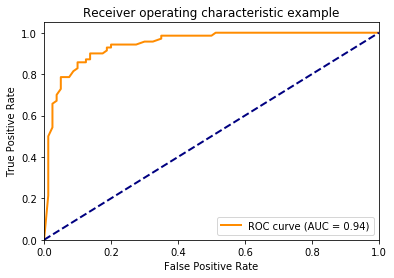
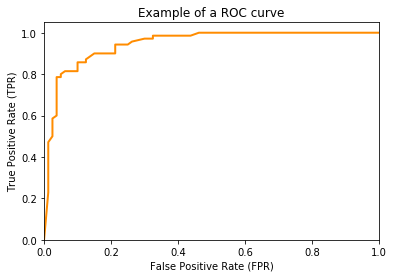
more on classification

diff --git a/_build/07_Classification.html b/_build/07_Classification.html
@@ -13,7 +13,7 @@ prev_page:
 next_page:
   url: /Exercises.html
 suffix: .ipynb
-search: classification class positive predicted negative spam hypothesis classes h b example false e scores x prediction emails objects not confusion matrix tdtd frac whale c binary concept td tr percentage categories images threshold o f case often instances correctly performance incorrectly table values pictures features target score predictions fp rate because our whales black even description mathcal scoring thus flagged metrics test actual true fn tn shows bear assign image general get also data algorithm usually such only sum t mean different mistakenly instance correct trtd tp positives negatives type cdot following img src png alt style width px set
+search: class positive metrics hypothesis classification negative predicted not classes spam performance example confusion matrix values tpr h prediction curve e case false b fpr roc only x predictions scores value emails mcc objects because thus threshold correctly different tdtd frac whale well used data f c binary four percentage concept mean td tr categories images often instances means table positives should auc consider our based also o such single evaluate score thresholds t between incorrectly result actual true correct recall shows pictures features even target perfect scoring just same good fp type measure rate accuracy very get whales black description
 
 comment: "***PROGRAMMATICALLY GENERATED, DO NOT EDIT. SEE ORIGINAL FILES IN /content***"
 ---
@@ -97,9 +97,8 @@ $$h_t(x) = \cases{ positive &amp; if $h'(x) \geq t$ \\ negative &amp; if $h' &lt
 
 
 
-<div class="output_png output_subarea ">
-<img src="images/07_Classification_1_0.png"
->
+<div class="output_text output_subarea ">
+<pre>&lt;Figure size 640x480 with 1 Axes&gt;</pre>
 </div>
 
 </div>
@@ -198,14 +197,14 @@ $$h_t(x) = \cases{ positive &amp; if $h'(x) \geq t$ \\ negative &amp; if $h' &lt
 <td>$TPR = \frac{FP}{TP+FN}$</td>
 </tr>
 <tr>
-<td>False negative rate, specificity</td>
+<td>True negative rate, specificity</td>
 <td>Percentage of negative instances that are predicted correctly.</td>
 <td>$TNR = \frac{TN}{TN+FP}$</td>
 </tr>
 <tr>
 <td>False negative rate</td>
 <td>Percentage of positive instances that are predicted incorrectly as negative.</td>
-<td>$TNR = \frac{FN}{FN+TP}$</td>
+<td>$FNR = \frac{FN}{FN+TP}$</td>
 </tr>
 <tr>
 <td>False positive rate</td>
@@ -239,7 +238,7 @@ $$h_t(x) = \cases{ positive &amp; if $h'(x) \geq t$ \\ negative &amp; if $h' &lt
 </tr>
 <tr>
 <td>F1 measure</td>
-<td>Harmonic mean of precision and recall.</td>
+<td>Harmonic mean of recall and precision.</td>
 <td>$F_1 = 2\cdot\frac{precision \cdot recall}{precision+recall}$</td>
 </tr>
 <tr>
@@ -249,6 +248,14 @@ $$h_t(x) = \cases{ positive &amp; if $h'(x) \geq t$ \\ negative &amp; if $h' &lt
 </tr>
 </tbody>
 </table>
+<p>Since there is an abundance of metrics, the question is still which metrics to use. The evaluation of eleven performance markers at the same time, many of which are strongly correlated, because they are all computed from the same four values from the confusion matrix, does not make sense. However, there is a logic behind these metrics, that can help with the decision which metrics should be used in a given projects.</p>
+<p>The first four metrics are rates in relation to the actual values. They can be used to answer the question "how much of my positive/negative data is labeled correctly". The combination of TPR and TNR is very important as these two metrics cover two questions that are important for many use cases: how many of the positives are found and how many of the negatives are found correctly? Consequently, these are well suited to evaluate the type I error and type II error, which are important in many fields, especially medicine. The other two metrics, the FPR and the FNR are the counterparts and can be directly calculated from as $FPR=1-TNR$ and $FNR=1-TPR$.</p>
+<p>The next four metrics are rates in relation to the predictions. They can be used to answer the question "how many of my predictions are labeled correctly". The difference to the first four metrics is that the quality of the results is measured in relation to the predicted classes, not the actual classes. Otherwise, these metrics are relatively similar to the first four metrics.</p>
+<p>A common property of the first eight metrics is that they should never be used on their own, i.e., you must never use only one of these metrics as the single criterion for optimization. The reason is that the first four metrics only consider one column of the confusion matrix, the second four metrics consider only one row. This means that if only one of them is used, the other column/row is ignored. As a consequence, <em>trivial hypotheses</em> are sufficient to achieve optimal results. What this means is best explained with a simple example. Consider you only want to optimize the TPR and no other metric. A trivial hypothesis that predicts everything as positive would be perfect, because the TPR would be one. However, this model would not be helpful at all. To avoid this, you must ensure that you use metrics that use at least that use at least three of the four values in the confusion matrix.</p>
+<p>Alternatively, you may also use metrics that do not only evaluate a single aspect of the hypothesis, but rather try to evaluate to overall performance. The last three metrics are examples for such metrics. These metrics use the complete confusion matrix to estimate the performance of the classifier. The accuracy measures the percentage of prediction that are correct. This is similar to the first four metrics, but not for a single class, but rather for both classes at once. The drawback of the accuracy is that it may be misleading in case of <em>class level imbalance</em>. Class level imbalance is the problem when you have much more data of one class, than of the other class. For example, consider the case where you have 95% of data in the negative class and only 5% in the positive class. A trivial hypothesis that predicts everything as negative would achieve an accuracy of 95%, which sounds like a very good result. However, there is no value in such a model. Thus, accuracy should be used with care and only in case the classes are balanced, i.e., about the same amount of data from each class if available.</p>
+<p>The F1 measure uses a different approach and is actually the <em>harmonic mean</em> mean of the TPR/recall and PPV/precision. Thus, it takes the ratio of of positive instances that are correctly identified and the ratio of positive predictions that actually should be positive into account. The harmonic mean is often used instead of the arithmetic mean for the comparison of rates. The F1 measure works well even in case of imbalanced data, because there is usually a trade-off between precision and recall assuming that a perfect prediction is impossible. To increase the recall, more positive predictions are required. However, in case the prediction is imperfect, this means that there will also be more false positives, which may decrease the recall. Thus, optimizing for the F1 measure is the same as optimizing for a good balance of true positives and false positives in case of imperfect predictions.</p>
+<p>The last metric in the table above is MCC and directly measures the correlation between the expected results and predictions. Basically, the MCC measures if the rates of correct positive and negative predictions correlate well with the expected result. The MCC is very robust against class level imbalance and generally works very well. The main drawback of MCC is that the value cannot be easily interpreted. The metrics above all have an easy natural language explanation that can easily be explained to non-data scientist. MCC lacks such a simple explanation. This also makes it harder to evaluate how high MCC should be, in order for a hypothesis to achieve a sufficiently high performance. This is made worse because in contrast to all other metrics above, the values of MCC are not in the interval [0,1], but rather between [-1, 1], because it is a correlation measure. A high negative value means that our hypothesis does the opposite of what it should be doing. Depending on the context, this may mean that the hypothesis is very good, if you just invert all results of the hypothesis. Thus, both large negative values and large positive values are good. In conclusion, MCC is a very robust and informative metric, but requires more training for the correct use than the other metrics we discussed above.</p>
+<h3 id="Receiver-Operator-Characteristics-(ROC)">Receiver Operator Characteristics (ROC)<a class="anchor-link" href="#Receiver-Operator-Characteristics-(ROC)"> </a></h3><p>All performance metrics we considered so far were based on the confusion matrix and did not account for scoring of classifiers. The drawback of the confusion matrix is that it can only be calculated for a fixed threshold $t$ for a score based hypothesis $h'$. How the values of the performance metrics change with different values for the threshold $t$ is not accounted for. One way to consider how different thresholds affect the performance of a hypothesis are ROC curves. A ROC curve represents possible combinations of the TPR and the FPR for different thresholds $t$. For example, a ROC curve may look like this.</p>
 
 </div>
 </div>
@@ -264,21 +271,19 @@ $$h_t(x) = \cases{ positive &amp; if $h'(x) \geq t$ \\ negative &amp; if $h' &lt
     <div class="input_area">
 <div class=" highlight hl-ipython3"><pre><span></span><span class="kn">from</span> <span class="nn">sklearn.metrics</span> <span class="k">import</span> <span class="n">roc_curve</span><span class="p">,</span> <span class="n">auc</span>
 
-<span class="n">fpr</span><span class="p">,</span> <span class="n">tpr</span><span class="p">,</span> <span class="n">_</span><span class="o">=</span> <span class="n">roc_curve</span><span class="p">(</span><span class="n">y_test</span><span class="p">,</span> <span class="n">y_score</span><span class="p">[:,</span><span class="mi">1</span><span class="p">])</span>
+<span class="n">fpr</span><span class="p">,</span> <span class="n">tpr</span><span class="p">,</span> <span class="n">t</span> <span class="o">=</span> <span class="n">roc_curve</span><span class="p">(</span><span class="n">y_test</span><span class="p">,</span> <span class="n">y_score</span><span class="p">[:,</span><span class="mi">1</span><span class="p">])</span>
 <span class="n">roc_auc</span> <span class="o">=</span> <span class="n">auc</span><span class="p">(</span><span class="n">fpr</span><span class="p">,</span> <span class="n">tpr</span><span class="p">)</span>
 
-<span class="c1"># Plot ROC Curve with AUC</span>
+<span class="c1"># Plot ROC Curve</span>
 <span class="n">plt</span><span class="o">.</span><span class="n">figure</span><span class="p">()</span>
 <span class="n">lw</span> <span class="o">=</span> <span class="mi">2</span>
 <span class="n">plt</span><span class="o">.</span><span class="n">plot</span><span class="p">(</span><span class="n">fpr</span><span class="p">,</span> <span class="n">tpr</span><span class="p">,</span> <span class="n">color</span><span class="o">=</span><span class="s1">&#39;darkorange&#39;</span><span class="p">,</span>
          <span class="n">lw</span><span class="o">=</span><span class="n">lw</span><span class="p">,</span> <span class="n">label</span><span class="o">=</span><span class="s1">&#39;ROC curve (AUC = </span><span class="si">%0.2f</span><span class="s1">)&#39;</span> <span class="o">%</span> <span class="n">roc_auc</span><span class="p">)</span>
-<span class="n">plt</span><span class="o">.</span><span class="n">plot</span><span class="p">([</span><span class="mi">0</span><span class="p">,</span> <span class="mi">1</span><span class="p">],</span> <span class="p">[</span><span class="mi">0</span><span class="p">,</span> <span class="mi">1</span><span class="p">],</span> <span class="n">color</span><span class="o">=</span><span class="s1">&#39;navy&#39;</span><span class="p">,</span> <span class="n">lw</span><span class="o">=</span><span class="n">lw</span><span class="p">,</span> <span class="n">linestyle</span><span class="o">=</span><span class="s1">&#39;--&#39;</span><span class="p">)</span>
 <span class="n">plt</span><span class="o">.</span><span class="n">xlim</span><span class="p">([</span><span class="mf">0.0</span><span class="p">,</span> <span class="mf">1.0</span><span class="p">])</span>
 <span class="n">plt</span><span class="o">.</span><span class="n">ylim</span><span class="p">([</span><span class="mf">0.0</span><span class="p">,</span> <span class="mf">1.05</span><span class="p">])</span>
-<span class="n">plt</span><span class="o">.</span><span class="n">xlabel</span><span class="p">(</span><span class="s1">&#39;False Positive Rate&#39;</span><span class="p">)</span>
-<span class="n">plt</span><span class="o">.</span><span class="n">ylabel</span><span class="p">(</span><span class="s1">&#39;True Positive Rate&#39;</span><span class="p">)</span>
-<span class="n">plt</span><span class="o">.</span><span class="n">title</span><span class="p">(</span><span class="s1">&#39;Receiver operating characteristic example&#39;</span><span class="p">)</span>
-<span class="n">plt</span><span class="o">.</span><span class="n">legend</span><span class="p">(</span><span class="n">loc</span><span class="o">=</span><span class="s2">&quot;lower right&quot;</span><span class="p">)</span>
+<span class="n">plt</span><span class="o">.</span><span class="n">xlabel</span><span class="p">(</span><span class="s1">&#39;False Positive Rate (FPR)&#39;</span><span class="p">)</span>
+<span class="n">plt</span><span class="o">.</span><span class="n">ylabel</span><span class="p">(</span><span class="s1">&#39;True Positive Rate (TPR)&#39;</span><span class="p">)</span>
+<span class="n">plt</span><span class="o">.</span><span class="n">title</span><span class="p">(</span><span class="s1">&#39;Example of a ROC curve&#39;</span><span class="p">)</span>
 <span class="n">plt</span><span class="o">.</span><span class="n">show</span><span class="p">()</span>
 </pre></div>
 
@@ -304,6 +309,135 @@ $$h_t(x) = \cases{ positive &amp; if $h'(x) \geq t$ \\ negative &amp; if $h' &lt
 </div>
 </div>
 
+</div>
+</div>
+
+<div class="jb_cell">
+
+<div class="cell border-box-sizing text_cell rendered"><div class="inner_cell">
+<div class="text_cell_render border-box-sizing rendered_html">
+<p>The ROC curve shows the FPR on the x-axis and the TPR on the y-axis. The ROC curve shows which different trade-offs between FPR and TPR are possible for different thresholds. Since good hypothesis achieve a high TPR and a low FPR, the optimal performance is in the upper-left corner of the plot where FPR is 0 and TPR is 1. This would be a perfect result without any misclassifications. The ROC curve can be used to pick a suitable combination of TPR and FPR for a use case. For example, if a TPR of at least 0.8 is required, we can see that we could achieve an FPR of 0.05, marked with a circle in the plot allow.</p>
+
+</div>
+</div>
+</div>
+</div>
+
+<div class="jb_cell tag_hide_input">
+
+<div class="cell border-box-sizing code_cell rendered">
+<div class="input">
+
+<div class="inner_cell">
+    <div class="input_area">
+<div class=" highlight hl-ipython3"><pre><span></span><span class="n">index</span> <span class="o">=</span> <span class="mi">0</span>
+<span class="k">while</span> <span class="n">tpr</span><span class="p">[</span><span class="n">index</span><span class="p">]</span><span class="o">&lt;</span><span class="mf">0.8</span><span class="p">:</span>
+    <span class="n">index</span> <span class="o">+=</span> <span class="mi">1</span>
+
+<span class="c1"># Plot ROC Curve</span>
+<span class="n">plt</span><span class="o">.</span><span class="n">figure</span><span class="p">()</span>
+<span class="n">lw</span> <span class="o">=</span> <span class="mi">2</span>
+<span class="n">plt</span><span class="o">.</span><span class="n">plot</span><span class="p">(</span><span class="n">fpr</span><span class="p">,</span> <span class="n">tpr</span><span class="p">,</span> <span class="n">color</span><span class="o">=</span><span class="s1">&#39;darkorange&#39;</span><span class="p">,</span>
+         <span class="n">lw</span><span class="o">=</span><span class="n">lw</span><span class="p">,</span> <span class="n">label</span><span class="o">=</span><span class="s1">&#39;ROC curve (AUC = </span><span class="si">%0.2f</span><span class="s1">)&#39;</span> <span class="o">%</span> <span class="n">roc_auc</span><span class="p">)</span>
+<span class="n">plt</span><span class="o">.</span><span class="n">scatter</span><span class="p">(</span><span class="n">fpr</span><span class="p">[</span><span class="n">index</span><span class="p">],</span> <span class="n">tpr</span><span class="p">[</span><span class="n">index</span><span class="p">],</span> <span class="n">color</span><span class="o">=</span><span class="s1">&#39;black&#39;</span><span class="p">,</span> <span class="n">marker</span><span class="o">=</span><span class="s1">&#39;o&#39;</span><span class="p">)</span>
+<span class="n">plt</span><span class="o">.</span><span class="n">xlim</span><span class="p">([</span><span class="mf">0.0</span><span class="p">,</span> <span class="mf">1.0</span><span class="p">])</span>
+<span class="n">plt</span><span class="o">.</span><span class="n">ylim</span><span class="p">([</span><span class="mf">0.0</span><span class="p">,</span> <span class="mf">1.05</span><span class="p">])</span>
+<span class="n">plt</span><span class="o">.</span><span class="n">xlabel</span><span class="p">(</span><span class="s1">&#39;False Positive Rate (FPR)&#39;</span><span class="p">)</span>
+<span class="n">plt</span><span class="o">.</span><span class="n">ylabel</span><span class="p">(</span><span class="s1">&#39;True Positive Rate (TPR)&#39;</span><span class="p">)</span>
+<span class="n">plt</span><span class="o">.</span><span class="n">title</span><span class="p">(</span><span class="s1">&#39;Optimal threshold: t=</span><span class="si">%.2f</span><span class="s1"> (TPR=</span><span class="si">%.2f</span><span class="s1">, FPR=</span><span class="si">%.2f</span><span class="s1">)&#39;</span> <span class="o">%</span> <span class="p">(</span><span class="n">t</span><span class="p">[</span><span class="n">index</span><span class="p">],</span> <span class="n">tpr</span><span class="p">[</span><span class="n">index</span><span class="p">],</span> <span class="n">fpr</span><span class="p">[</span><span class="n">index</span><span class="p">]))</span>
+<span class="n">plt</span><span class="o">.</span><span class="n">show</span><span class="p">()</span>
+</pre></div>
+
+    </div>
+</div>
+</div>
+
+<div class="output_wrapper">
+<div class="output">
+
+<div class="jb_output_wrapper }}">
+<div class="output_area">
+
+
+
+<div class="output_png output_subarea ">
+<img src="images/07_Classification_6_0.png"
+>
+</div>
+
+</div>
+</div>
+</div>
+</div>
+
+</div>
+</div>
+
+<div class="jb_cell">
+
+<div class="cell border-box-sizing text_cell rendered"><div class="inner_cell">
+<div class="text_cell_render border-box-sizing rendered_html">
+<h3 id="Area-Under-the-Curve-(AUC)">Area Under the Curve (AUC)<a class="anchor-link" href="#Area-Under-the-Curve-(AUC)"> </a></h3><p>The Area Under the Curve (AUC) is a performance metric based on the ROC curve. The ROC curve is a great tool for the visual analysis of the impact of different thresholds as well as for the selection of suitable thresholds if there is a desired goal for the TPR or FPR. The AUC computes a single value based on the ROC curve that estimates how well the hypothesis performs independent of any specific threshold. The idea behind the AUC is quite simple. If the best combinations of TPR and FPR are in the upper-left corner of the ROC curve, this means that the performance is better if the area under the curve increases. Thus, if we integrate the area under the ROC curve, we can estimate how well a classifier performs. Hence, the name: we have the area under the (ROC) curve.</p>
+
+</div>
+</div>
+</div>
+</div>
+
+<div class="jb_cell tag_hide_input">
+
+<div class="cell border-box-sizing code_cell rendered">
+<div class="input">
+
+<div class="inner_cell">
+    <div class="input_area">
+<div class=" highlight hl-ipython3"><pre><span></span><span class="c1"># Plot ROC Curve with AUC</span>
+<span class="n">plt</span><span class="o">.</span><span class="n">figure</span><span class="p">()</span>
+<span class="n">plt</span><span class="o">.</span><span class="n">plot</span><span class="p">(</span><span class="n">fpr</span><span class="p">,</span> <span class="n">tpr</span><span class="p">,</span> <span class="n">color</span><span class="o">=</span><span class="s1">&#39;darkorange&#39;</span><span class="p">,</span>
+         <span class="n">lw</span><span class="o">=</span><span class="n">lw</span><span class="p">,</span> <span class="n">label</span><span class="o">=</span><span class="s1">&#39;AUC = </span><span class="si">%0.2f</span><span class="s1">&#39;</span> <span class="o">%</span> <span class="n">roc_auc</span><span class="p">)</span>
+<span class="n">plt</span><span class="o">.</span><span class="n">fill_between</span><span class="p">(</span><span class="n">fpr</span><span class="p">,</span> <span class="mi">0</span><span class="p">,</span> <span class="n">tpr</span><span class="p">,</span> <span class="n">color</span><span class="o">=</span><span class="s1">&#39;darkorange&#39;</span><span class="p">)</span>
+<span class="n">plt</span><span class="o">.</span><span class="n">xlim</span><span class="p">([</span><span class="mf">0.0</span><span class="p">,</span> <span class="mf">1.0</span><span class="p">])</span>
+<span class="n">plt</span><span class="o">.</span><span class="n">ylim</span><span class="p">([</span><span class="mf">0.0</span><span class="p">,</span> <span class="mf">1.05</span><span class="p">])</span>
+<span class="n">plt</span><span class="o">.</span><span class="n">xlabel</span><span class="p">(</span><span class="s1">&#39;False Positive Rate&#39;</span><span class="p">)</span>
+<span class="n">plt</span><span class="o">.</span><span class="n">ylabel</span><span class="p">(</span><span class="s1">&#39;True Positive Rate&#39;</span><span class="p">)</span>
+<span class="n">plt</span><span class="o">.</span><span class="n">title</span><span class="p">(</span><span class="s1">&#39;Receiver operating characteristic example&#39;</span><span class="p">)</span>
+<span class="n">plt</span><span class="o">.</span><span class="n">legend</span><span class="p">(</span><span class="n">loc</span><span class="o">=</span><span class="s2">&quot;lower right&quot;</span><span class="p">)</span>
+<span class="n">plt</span><span class="o">.</span><span class="n">show</span><span class="p">()</span>
+</pre></div>
+
+    </div>
+</div>
+</div>
+
+<div class="output_wrapper">
+<div class="output">
+
+<div class="jb_output_wrapper }}">
+<div class="output_area">
+
+
+
+<div class="output_png output_subarea ">
+<img src="images/07_Classification_8_0.png"
+>
+</div>
+
+</div>
+</div>
+</div>
+</div>
+
+</div>
+</div>
+
+<div class="jb_cell">
+
+<div class="cell border-box-sizing text_cell rendered"><div class="inner_cell">
+<div class="text_cell_render border-box-sizing rendered_html">
+<p>The closer the AUC value is to one, the better the performance of our classifier. In terms of interpretation, AUC has similar problems as MCC: while a value of 1 is optimal, the worst value is not 0, but rather 0.5. This is because if we just randomly guess if we have a positive or a negative instance, the TPR equals the FPR, which is the diagonal of the ROC curve. Thus, an AUC value of 0.5 represents random guessing. A value of 0 means that we have a TPR of 0 and an FPR 1. Same as for negative values of MCC, we could just do the opposite of the hypothesis and get a perfect result. Consequently, values of AUC are better, the farther they are away from 0.5.</p>
+
+</div>
+</div>
 </div>
 </div>
 

diff --git a/_build/02_Process.html b/_build/02_Process.html
@@ -13,7 +13,7 @@ prev_page:
 next_page:
   url: /03_Data-Exploration.html
 suffix: .ipynb
-search: data project should e not also g model projects results analysis models must business code used required process available scientists resources case different usually into within well relevant presentation often only items means scientist want through decide domain part however example user roles knowledge moreover because work users role science techniques based bought additional performance goal good understand objectives customer identify database environment chapter test approach manager general past increase whether possible sufficient problem research especially done clothing products re sponsor risk customers discovery experts understanding information possibly current assessment web sales cross type preparation etl elt processes between important
+search: data project should e not also g model projects results analysis models must business code used required available process scientists resources case different usually into within well relevant presentation often only items means scientist want through decide domain part however example user roles knowledge moreover because work users role science techniques based bought additional performance goal good understand objectives customer identify database environment chapter test approach manager general past increase whether possible sufficient problem research especially done clothing products re sponsor processes risk customers discovery experts understanding information possibly current assessment web sales cross type preparation etl elt between important
 
 comment: "***PROGRAMMATICALLY GENERATED, DO NOT EDIT. SEE ORIGINAL FILES IN /content***"
 ---
@@ -136,7 +136,7 @@ comment: "***PROGRAMMATICALLY GENERATED, DO NOT EDIT. SEE ORIGINAL FILES IN /con
 <p>The project sponsors are usually not part of the day-to-day business within projects.</p>
 <h3 id="Project-Manager">Project Manager<a class="anchor-link" href="#Project-Manager"> </a></h3><p>The project manager is the organizer of the project work and the day-to-day business. This includes the planning and management of resources (monetary, human, computational), as well as the controlling of the project progress. The project manager ensures the milestones are achieved and objectives are met on time and with the expected quality. The project manager regularly assesses the risks and possibly implements corrective measures to mitigate the risks. In the extreme case this may also mean that the project manager has to abort projects or request additional resources, because a successful completion of the project may not be possible with the required resources. In academic projects, the project manager is often the same person as the project sponsor, or someone working for the project sponsor, e.g., a post-doc or a PhD student working in the lab of a professor.</p>
 <h3 id="Business-Intelligence-Analyst">Business Intelligence Analyst<a class="anchor-link" href="#Business-Intelligence-Analyst"> </a></h3><p>The business intelligence analyst is the traditional business intelligence role. The business intelligence analysts are usually also domain experts, although not business users. Additionally, they know the data very well and are experts on creating reports from the data, including the key performance indicators (KPIs) relevant for the domain. This role does not really exist in academia. The closest thing would be a researcher, who is, e.g., used to evaluating taxonomies manually, but not through algorithms.</p>
-<h3 id="Data-Engineer">Data Engineer<a class="anchor-link" href="#Data-Engineer"> </a></h3><p>The data engineer is involved in the ETL/ELT of the process and responsible with making the data accessible in the analysis environment in a scalable manner. Data engineers require strong technical skills if data still needs to be collected and in big data projects. In most academic projects, there is no separation between the data engineer and the data scientist. In some disciplines, e.g., genomics, data engineers may exist and in the role of preparing genomic data from the lab for use with bioinformatics tools or high energy physics, where whole teams prepare the data huge amounts of collected for further analysis.</p>
+<h3 id="Data-Engineer">Data Engineer<a class="anchor-link" href="#Data-Engineer"> </a></h3><p>The data engineer is involved in the ETL/ELT of the process and responsible with making the data accessible in the analysis environment in a scalable manner. Data engineers require strong technical skills if data still needs to be collected and in big data projects. In most academic projects, there is no separation between the data engineer and the data scientist. In some disciplines, e.g., genomics, data engineers may exist in the role of preparing genomic data from the lab for use with bioinformatics tools or in high energy physics, where whole teams prepare the huge amounts of data collected for further analysis.</p>
 <h3 id="Database-Administrator">Database Administrator<a class="anchor-link" href="#Database-Administrator"> </a></h3><p>The database administrator supports the data engineer and the data scientists through the deployment and administration of the analysis environment for the project. The tasks include the installation and configuration of (distributed) databases, software for distributed computing in compute clusters, and the provision of the required tools for the analysis. In academic projects, this role is not separated from the data scientist, or the administrator of the research institute or related compute center fulfills this role.</p>
 <h3 id="Data-Scientist">Data Scientist<a class="anchor-link" href="#Data-Scientist"> </a></h3><p>The data scientist is the expert with respect to the analysis of the data and modeling. The data scientist has deep knowledge about data analysis techniques and is able to select suitable techniques to achieve the desired business objective. The data scientist is responsible for the analysis of the data and has to ensure that the analysis objectives are met. If this is not possible, the data scientists must communicate this as soon as possible to the project manager, as this is usually a major risk within data science projects. In academia, this role is usually the researcher who executes a project.</p>
 
@@ -152,14 +152,14 @@ comment: "***PROGRAMMATICALLY GENERATED, DO NOT EDIT. SEE ORIGINAL FILES IN /con
 <h2 id="Core-Deliverables">Core Deliverables<a class="anchor-link" href="#Core-Deliverables"> </a></h2><p>A deliverable is a tangible or intangible good or service produced as a result of a project. The required deliverables are often specified as part of contracts and often associated with project milestones. Deliverables must meet the stakeholder's expectations for the project to be successful. For a data science project, there are four core deliverables that are usually required.</p>
 <h3 id="Sponsor-Presentation">Sponsor Presentation<a class="anchor-link" href="#Sponsor-Presentation"> </a></h3><p>The sponsor presentation is for the big picture and a non-technical audience, e.g., business users, project sponsors, and the project management. The focus of the sponsor presentation should be on clear takeaway messages that are related to the business use case. For example, the performance of a model should not be given in some machine learning metrics, but rather in business metrics. This means that you do not mention "true positives", but "the percentage of correctly identified defaulting customers". The presentation should be designed to support decision making. What exactly this means depends on the state of the project and the audience. For business users, the presentation may be tailored such that improvements of the business process are highlighted to motivate the business users to adopt the approach. For project sponsors, the goal may be to aid their decision whether the results of the project should be operationalized or not.</p>
 <p>Visualization should be simple and on point. Bar charts, line charts, and simple histograms. In case of histograms, the bins should make sense for the business users. The visualizations should support the results regarding the key performance indicators. Detailed visualizations that present in depth how and why your models work should not be used within a sponsor presentation.</p>
-<h3 id="Analyst-Presentation">Analyst Presentation<a class="anchor-link" href="#Analyst-Presentation"> </a></h3><p>The analyst presentation is aimed at a technical audience, e.g., fellow data scientists. This presentation should also cover the big picture, especially key performance indicators should also be presented. However, the analyst presentation should also cover how the data was analyzed. This should include the general approach that was used, but also concrete algorithms. Depending on the audience, and the available time, it may even be a good idea to include relevant implementation details. In general, the presentation should not focus on "the obvious". If standard techniques are used, there should not be lengthy description of them. Instead, the presentation but focus on interesting aspects, e.g., unexpected problems, creative solutions, new inventions to improve performance and similar aspects.</p>
-<p>Moreover, the presentation should cover how the project results go beyond the state of the art, especially in research presentations. However, you may also address in industrial use cases how your project would change the current state of practice and how business process need to be adopted and may possibly be improved.</p>
+<h3 id="Analyst-Presentation">Analyst Presentation<a class="anchor-link" href="#Analyst-Presentation"> </a></h3><p>The analyst presentation is aimed at a technical audience, e.g., fellow data scientists. This presentation should also cover the big picture, especially key performance indicators should also be presented. However, the analyst presentation should also cover how the data was analyzed. This should include the general approach that was used, but also concrete algorithms. Depending on the audience, and the available time, it may even be a good idea to include relevant implementation details. In general, the presentation should not focus on "the obvious". If standard techniques are used, there should not be lengthy description of them. Instead, the presentation should focus on interesting aspects, e.g., unexpected problems, creative solutions, new inventions to improve performance and similar aspects.</p>
+<p>Moreover, the presentation should cover how the project results go beyond the state of the art, especially in research presentations. However, you may also address in industrial use cases how your project would change the current state of practice and how business processes need to be adopted and may possibly be improved.</p>
 <p>The analyst presentation can be more complex. This also means that you can use more complex visualizations, for example box plots, density plots, ROC curves, and error bars for confidence intervals.  Regardless, this is not a free pass for arbitrary complex graphics. The presentation should still be clean and not overloaded.</p>
 <h3 id="Code">Code<a class="anchor-link" href="#Code"> </a></h3><p>The developed model in form of code is usually also a deliverable. The developed code is often prototypical, e.g., not a cleanly coded library that can easily be included and re-used, but rather a couple of files with scripts that can be executed. In the worst case, these scripts may even contain workstation depend code, like absolute file paths. Clean code is often a secondary concern, the focus on the code is usually on creating a good model and the estimates of the performance.</p>
 <p>The code is at the same time the exact specification of the models. Therefore, the code - regardless how "hacky" - is a valuable resource. The code may be re-used, re-written, or adopted or cleaned up. This can be especially valuable during the operationalization. When the code is re-written, the old code can also be used for comparison, e.g., to check if the results are unchanged.</p>
 <h3 id="Technical-Specifications">Technical Specifications<a class="anchor-link" href="#Technical-Specifications"> </a></h3><p>The code does not live on its own. Code requires documentation and specifications. This documentation should describe the environment in which the code can be executed, e.g., which operation systems are supported, which other software is required, how dependencies can be installed, and how the code can be run. This is, unfortunately, often neglected. Technical specifications are often missing, outdated, or incomplete. This lack of documentation may mean that the code becomes unusable. Regardless, good data scientists ensure that this is not the case. In research, this may mean that a replication package is provided together with a publication that contains all code and additional documentation required for running the code. In industrial projects, this should be a standard part of the packaging of the source code.</p>
 <h3 id="Data-as-Deliverable">Data as Deliverable<a class="anchor-link" href="#Data-as-Deliverable"> </a></h3><p>When data is collected or significantly pre-processed and cleaned up during a project, the data itself may also be deliverable. Sharing of the data may enable future projects and help with the testing of re-implementations during the operationalization. Data sharing is especially important in academia. Without the sharing of data, research cannot build on each other. Moreover, replications and the reproduction of prior results may not be possible.</p>
-<p>How data can be shared depends on the sensitivity and the amount of data. Sharing of big data is difficult, as it may actually be impossible to create download links. In this case, the data may be shared through multiple smaller packages or by providing and access point to the database that allows external querying of the data. If the data contains personal data, sharing may not be simple and require dedicated data privacy agreements or prior anonymization. In the industrial context, data can be shared internally within a company. In research, data sharing should follow the <a href="https://www.go-fair.org/fair-principles/">FAIR</a>. Thus, the data must be findable (e.g., with a Digital Object Identifier (DOI)), accessible (authentication support if required), interoperable (provides all information required for use by others), and reusable (has a license and is in line with community standards). Ideally, not only the data is shared, but also the protocols and tools used to create the data.</p>
+<p>How data can be shared depends on the sensitivity and the amount of data. Sharing of big data is difficult, as it may actually be impossible to create download links. In this case, the data may be shared through multiple smaller packages or by providing an access point to the database that allows external querying of the data. If the data contains personal data, sharing may not be simple and require dedicated data privacy agreements or prior anonymization. In the industrial context, data can be shared internally within a company. In research, data sharing should follow the <a href="https://www.go-fair.org/fair-principles/">FAIR</a>. Thus, the data must be findable (e.g., with a Digital Object Identifier (DOI)), accessible (authentication support if required), interoperable (provides all information required for use by others), and reusable (has a license and is in line with community standards). Ideally, not only the data is shared, but also the protocols and tools used to create the data.</p>
 
 </div>
 </div>
